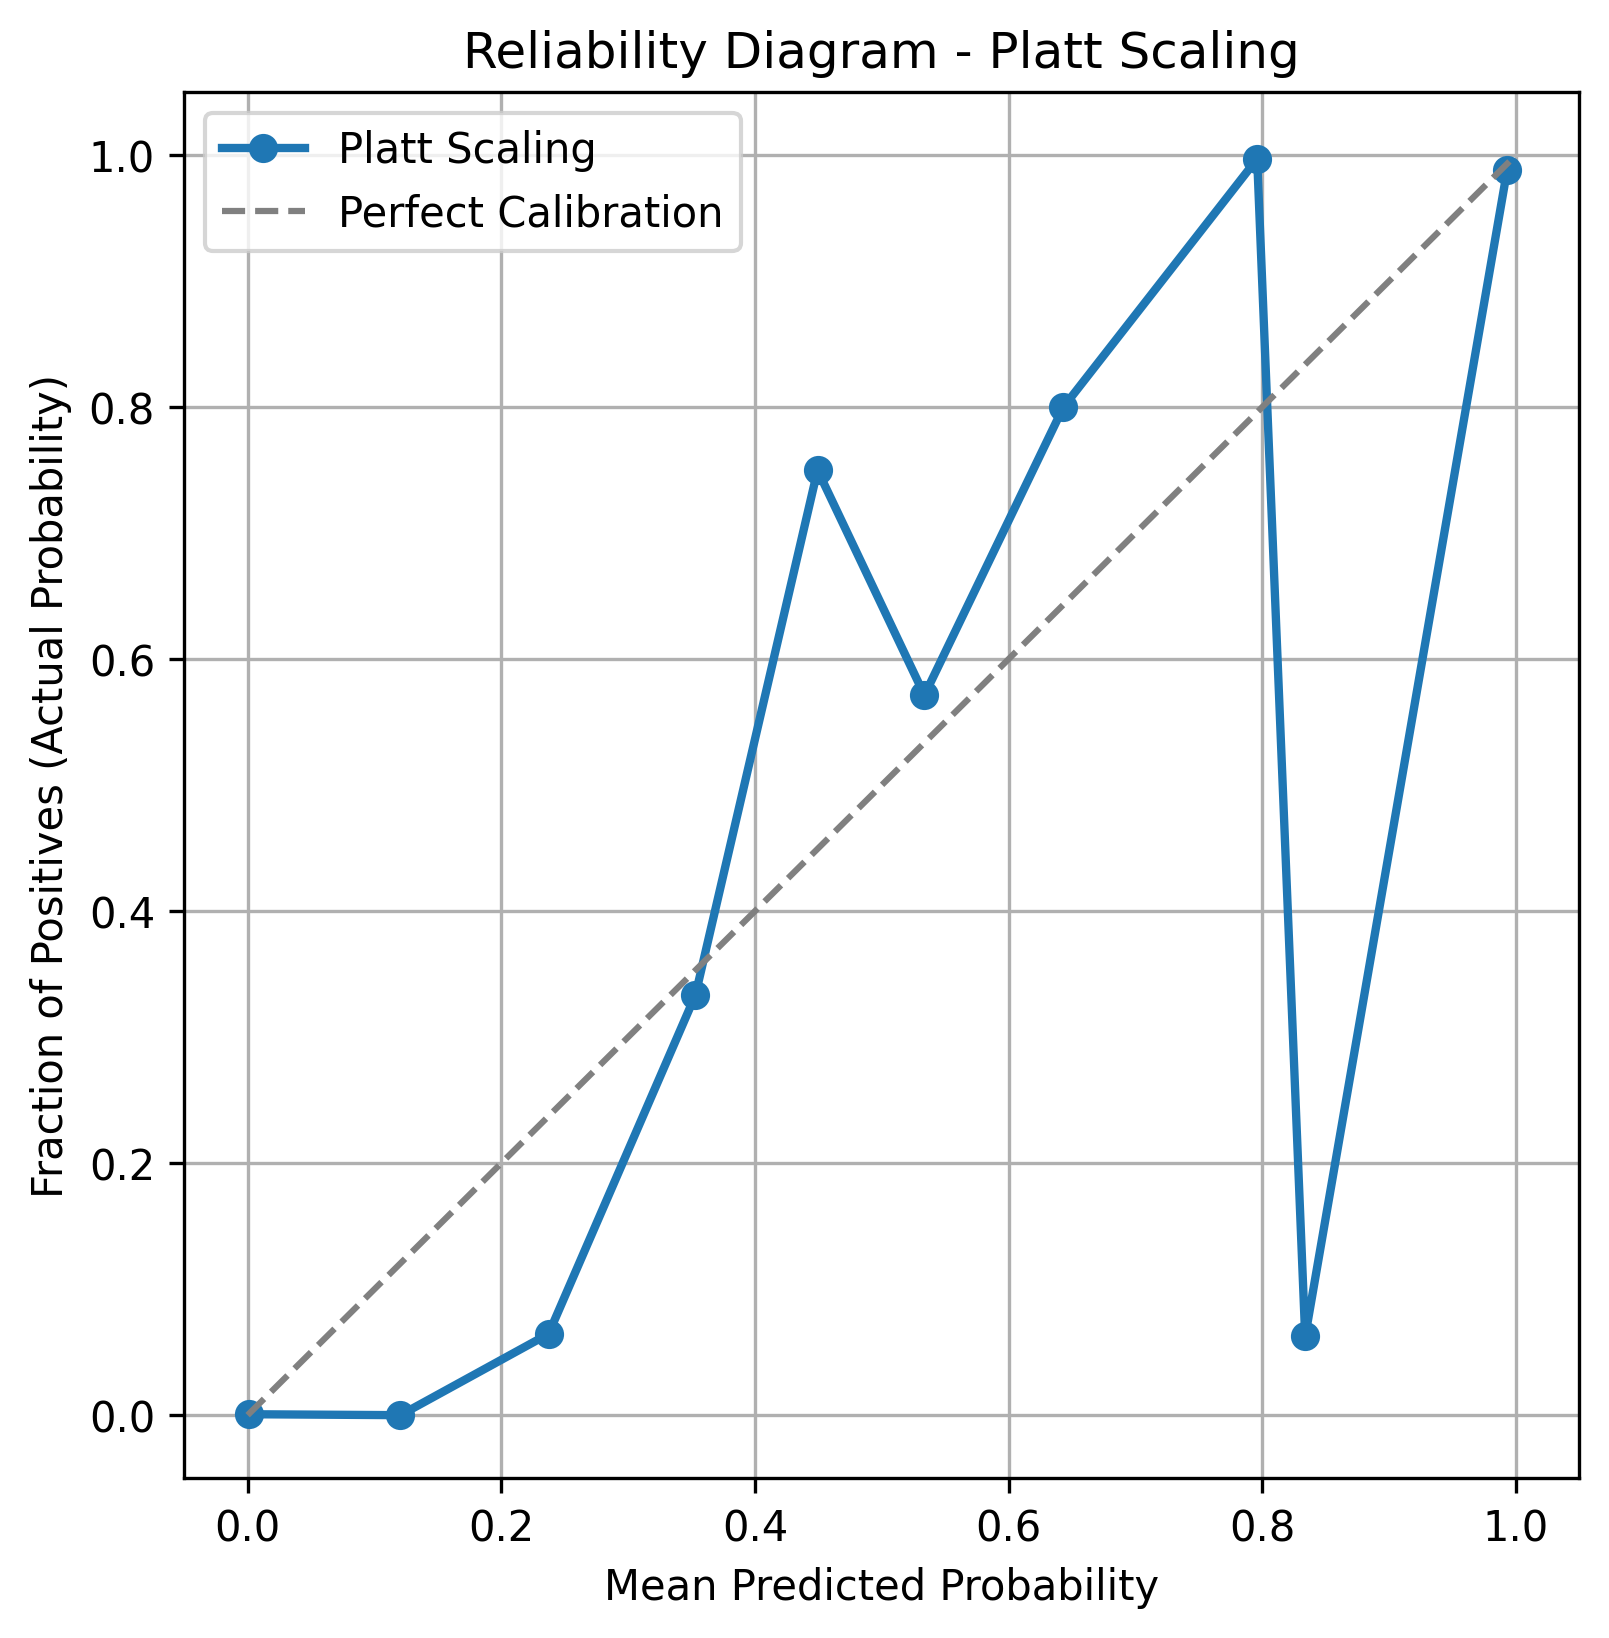
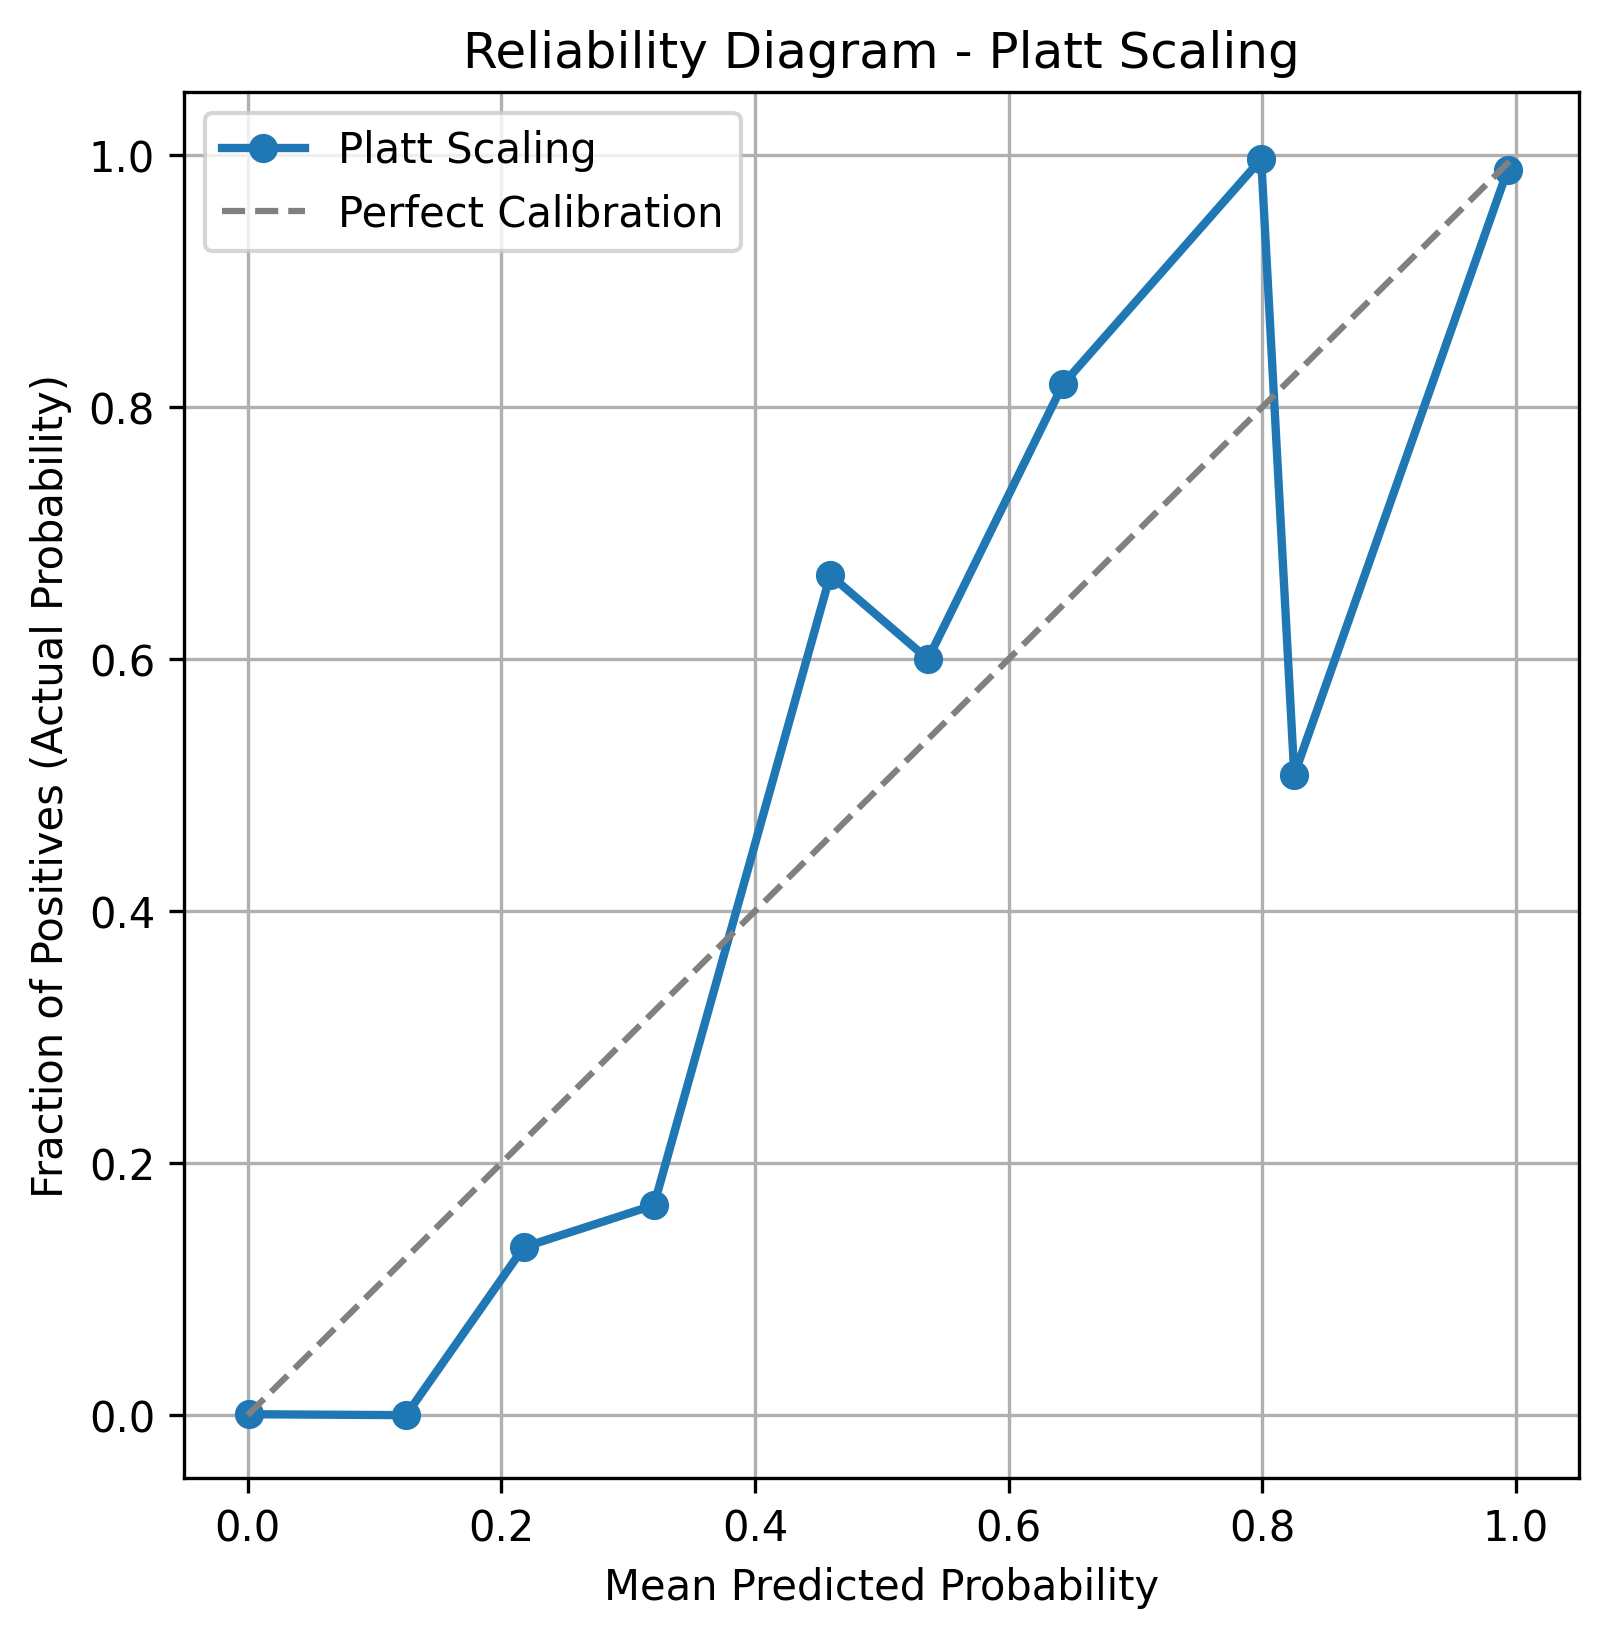
da them isotonic regression

diff --git a/src/modules/Calibration/isotonic_regression.py b/src/modules/Calibration/isotonic_regression.py
@@ -1,0 +1,31 @@
+from sklearn.calibration import CalibratedClassifierCV
+from sklearn.frozen import FrozenEstimator
+
+def run_isotonic_regression(raw_model, X_cal, y_cal, X_test):
+    """
+    Huấn luyện Isotonic Regression trên tập Calibration để hiệu chỉnh xác suất.
+    
+    Args:
+        raw_model: Mô hình Logistic Regression đã được huấn luyện (từ baseline)
+        X_cal, y_cal: Tập dữ liệu Calibration (20%)
+        X_test: Tập dữ liệu Test để dự đoán (20%)
+        
+    Returns:
+        iso_model: Mô hình đã được hiệu chỉnh
+        y_prob_iso: Xác suất dự đoán sau hiệu chỉnh
+        y_pred_iso: Nhãn dự đoán sau hiệu chỉnh
+    """
+    print("Đang huấn luyện mô hình Isotonic Regression trên tập Calibration...")
+    frozen_model = FrozenEstimator(raw_model)
+    
+    # Khởi tạo Calibrator với estimator đã đóng băng
+    iso_model = CalibratedClassifierCV(estimator=frozen_model, method='isotonic')
+    
+    # Huấn luyện bộ hiệu chỉnh (Calibrator) bằng tập Calibration
+    iso_model.fit(X_cal, y_cal)
+    
+    # Lấy kết quả dự đoán trên tập Test
+    y_pred_iso = iso_model.predict(X_test)
+    y_prob_iso = iso_model.predict_proba(X_test)[:, 1]
+    
+    return iso_model, y_prob_iso, y_pred_iso

diff --git a/src/main.py b/src/main.py
@@ -12,6 +12,7 @@ from modules.evaluation import (
     evaluation_model,
 )
 from modules.Calibration.platt_scaling import platt_scaling
+from modules.Calibration.isotonic_regression import run_isotonic_regression
 
 # Read
 readFile = "./data/raw/Tuesday-WorkingHours.pcap_ISCX.csv"
@@ -48,6 +49,8 @@ if existing_features:
 model, y_prob, y_pred = run_baseline(X_train, X_test, y_train)
 # Platt Scaling
 platt_model, y_prob_platt, y_pred_platt = platt_scaling(model, X_cal, y_cal, X_test)
+# Isotonic Regression
+iso_model, iso_prob, iso_pred = run_isotonic_regression(model, X_cal, y_cal, X_test)
 
 # Metrics
 evaluation_model(y_test, y_pred, y_prob, model_name="Logistic Regression (Raw)")
@@ -59,3 +62,6 @@ plot_reliability_diagram(y_test, y_prob, model_name="Logistic Regression (Raw)")
 
 plot_confusion_matrix(y_test, y_pred_platt, model_name="Platt Scaling")
 plot_reliability_diagram(y_test, y_prob_platt, model_name="Platt Scaling")
+
+plot_confusion_matrix(y_test, iso_pred, model_name="Isotonic Regression")
+plot_reliability_diagram(y_test, iso_prob, model_name="Isotonic Regression")

diff --git a/src/modules/baseline.py b/src/modules/baseline.py
@@ -63,7 +63,7 @@ def run_baseline(X_train, X_test, y_train):
     y_pred = model.predict(X_test)  # Nhãn cứng (0 hoặc 1)
     y_prob = model.predict_proba(X_test)[:, 1]  # Xác suất rơi vào lớp 1 (Attack)
 
-    # # 4. Tính toán các Metric
+    # 4. Tính toán các Metric
     # cm = confusion_matrix(y_test, y_pred)
     # tn, fp, fn, tp = cm.ravel()
 
